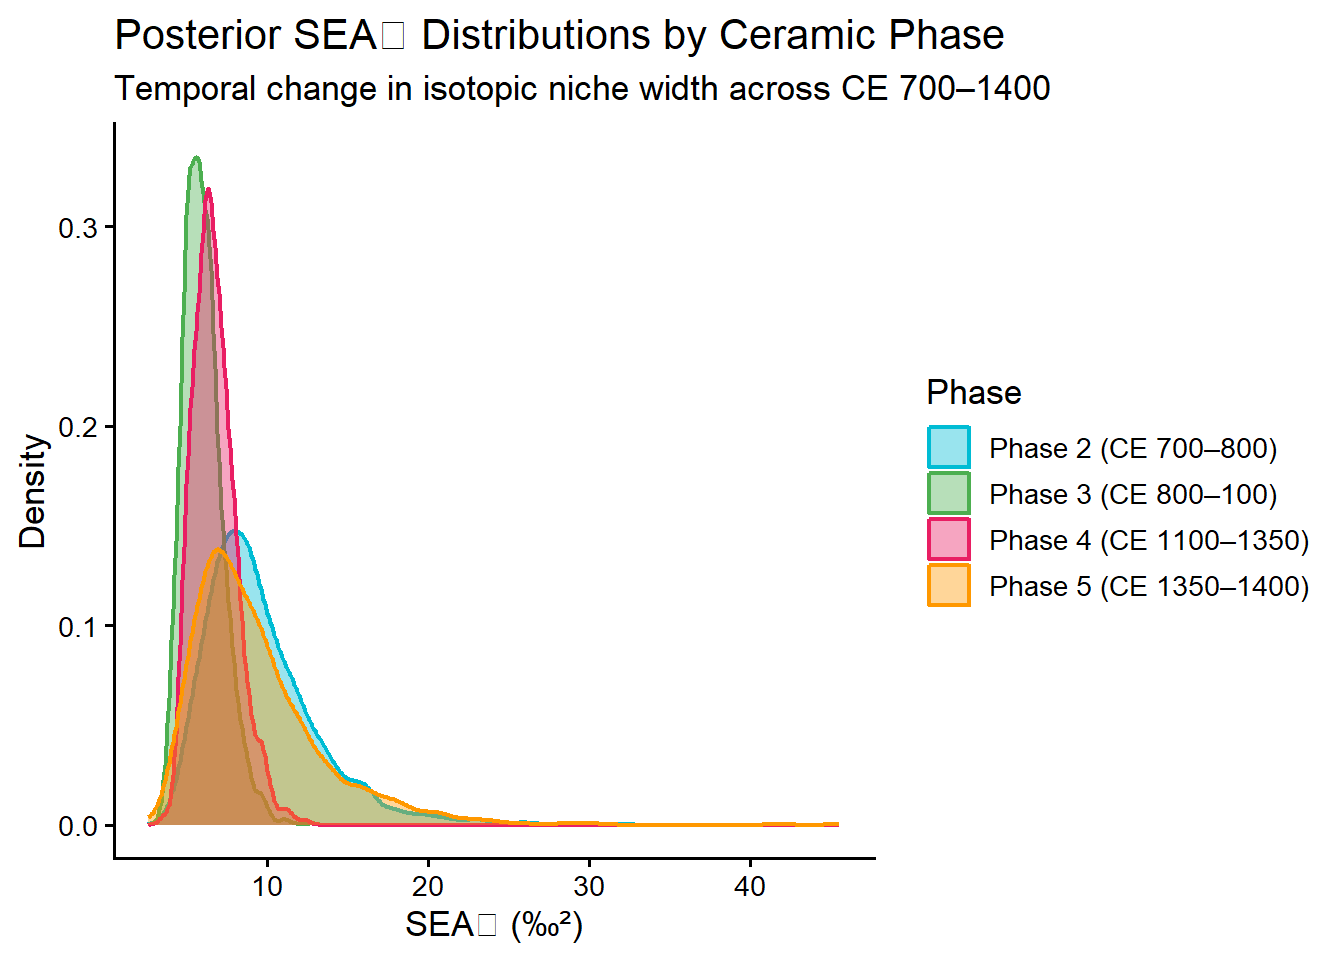
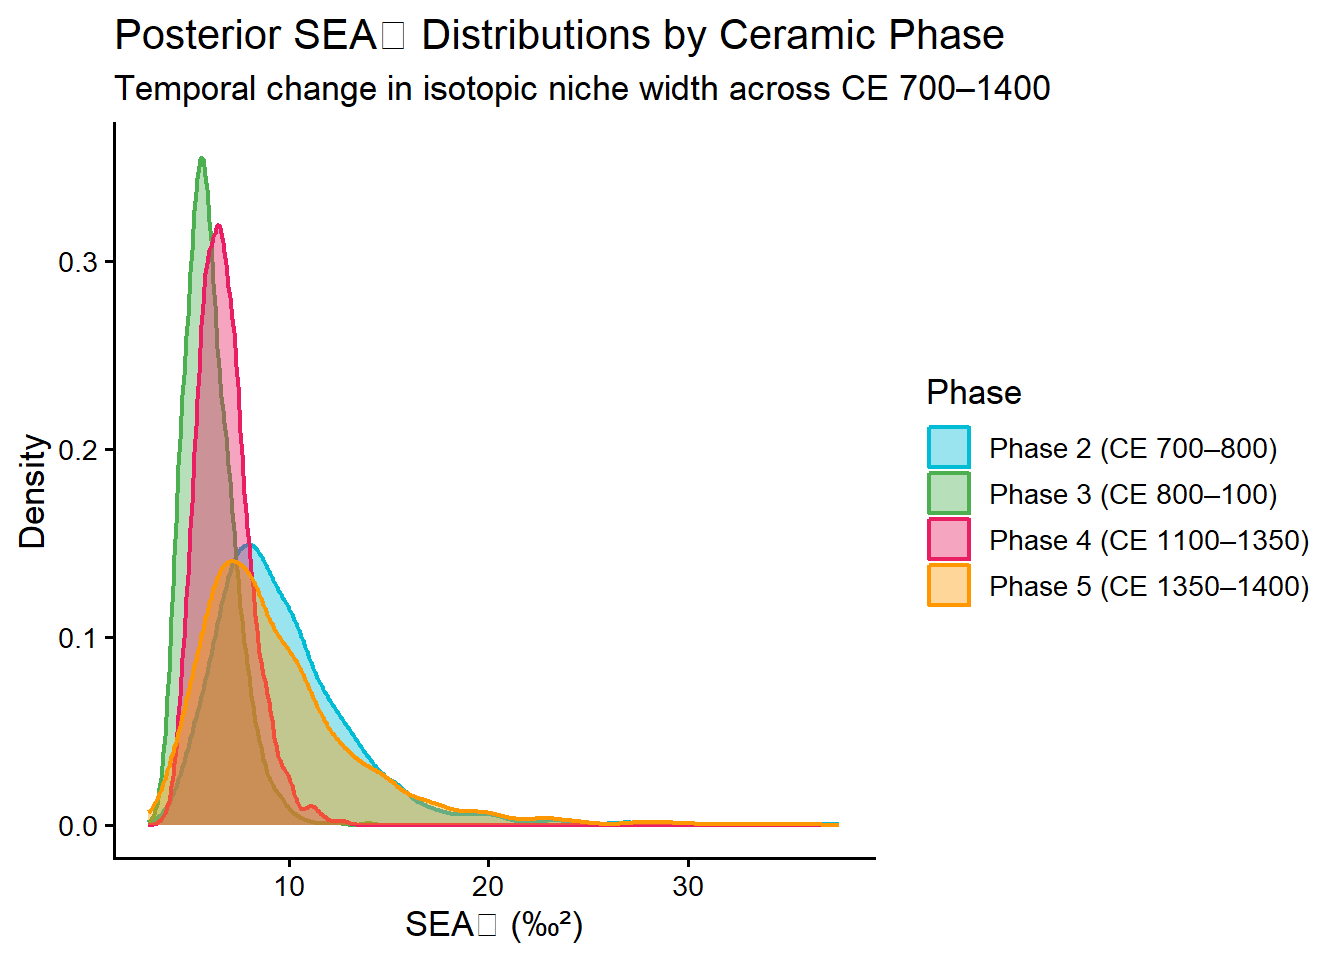
Merge remote changes from Stella

diff --git a/CollDataSciPro.html b/CollDataSciPro.html
@@ -581,8 +581,8 @@ Posterior SEA_B summary (‰²):</code></pre>
 <div class="code-copy-outer-scaffold"><div class="sourceCode cell-code" id="cb48"><pre class="sourceCode r code-with-copy"><code class="sourceCode r"><span id="cb48-1"><a href="#cb48-1" aria-hidden="true" tabindex="-1"></a><span class="fu">print</span>(<span class="fu">round</span>(<span class="fu">t</span>(SEA_B_sites_summary), <span class="dv">3</span>))</span></code></pre></div><button title="Copy to Clipboard" class="code-copy-button"><i class="bi"></i></button></div>
 <div class="cell-output cell-output-stdout">
 <pre><code>              mean median lower.2.5% upper.97.5%
-Mendoza     22.820 22.564     17.832      29.126
-Salvatierra 28.919 28.273     19.862      41.874</code></pre>
+Mendoza     22.873 22.715     17.950      28.853
+Salvatierra 29.135 28.557     20.143      41.759</code></pre>
 </div>
 </div>
 <p>Plot posterior SEA_B distributions</p>
@@ -620,7 +620,7 @@ Salvatierra 28.919 28.273     19.862      41.874</code></pre>
 <span id="cb51-4"><a href="#cb51-4" aria-hidden="true" tabindex="-1"></a>))</span></code></pre></div><button title="Copy to Clipboard" class="code-copy-button"><i class="bi"></i></button></div>
 <div class="cell-output cell-output-stdout">
 <pre><code>
-P(SEA_B Salvatierra &gt; SEA_B Mendoza) = 0.850</code></pre>
+P(SEA_B Salvatierra &gt; SEA_B Mendoza) = 0.845</code></pre>
 </div>
 </div>
 </section>
@@ -760,10 +760,10 @@ Posterior SEA_B summary by phase (‰²):</code></pre>
 <div class="code-copy-outer-scaffold"><div class="sourceCode cell-code" id="cb64"><pre class="sourceCode r code-with-copy"><code class="sourceCode r"><span id="cb64-1"><a href="#cb64-1" aria-hidden="true" tabindex="-1"></a><span class="fu">print</span>(<span class="fu">round</span>(<span class="fu">t</span>(SEA_B_phase_summary), <span class="dv">3</span>))</span></code></pre></div><button title="Copy to Clipboard" class="code-copy-button"><i class="bi"></i></button></div>
 <div class="cell-output cell-output-stdout">
 <pre><code>         mean median lower.2.5% upper.97.5%
-Phase_2 9.612  8.851      4.957      18.450
-Phase_3 6.008  5.866      4.063       8.878
-Phase_4 6.711  6.536      4.606       9.822
-Phase_5 9.317  8.386      4.288      19.693</code></pre>
+Phase_2 9.653  8.995      5.006      18.028
+Phase_3 5.996  5.813      4.042       8.912
+Phase_4 6.743  6.587      4.627       9.927
+Phase_5 9.374  8.394      4.362      19.894</code></pre>
 </div>
 <div class="code-copy-outer-scaffold"><div class="sourceCode cell-code" id="cb66"><pre class="sourceCode r code-with-copy"><code class="sourceCode r"><span id="cb66-1"><a href="#cb66-1" aria-hidden="true" tabindex="-1"></a>SEA_B_phase_long <span class="ot">&lt;-</span> <span class="fu">as.data.frame</span>(SEA_B_phase) <span class="sc">%&gt;%</span></span>
 <span id="cb66-2"><a href="#cb66-2" aria-hidden="true" tabindex="-1"></a>  <span class="fu">pivot_longer</span>(<span class="fu">everything</span>(), <span class="at">names_to =</span> <span class="st">"Phase"</span>, <span class="at">values_to =</span> <span class="st">"SEA_B"</span>) <span class="sc">%&gt;%</span></span>
@@ -802,12 +802,12 @@ Pairwise posterior probabilities P(row &gt; col):</code></pre>
 <span id="cb69-3"><a href="#cb69-3" aria-hidden="true" tabindex="-1"></a>  <span class="fu">cat</span>(<span class="fu">sprintf</span>(<span class="st">"  P(%s &gt; %s) = %.3f</span><span class="sc">\n</span><span class="st">"</span>, pair[<span class="dv">1</span>], pair[<span class="dv">2</span>], p))</span>
 <span id="cb69-4"><a href="#cb69-4" aria-hidden="true" tabindex="-1"></a>}</span></code></pre></div><button title="Copy to Clipboard" class="code-copy-button"><i class="bi"></i></button></div>
 <div class="cell-output cell-output-stdout">
-<pre><code>  P(Phase_2 &gt; Phase_3) = 0.868
-  P(Phase_2 &gt; Phase_4) = 0.793
-  P(Phase_2 &gt; Phase_5) = 0.548
-  P(Phase_3 &gt; Phase_4) = 0.352
-  P(Phase_3 &gt; Phase_5) = 0.200
-  P(Phase_4 &gt; Phase_5) = 0.267</code></pre>
+<pre><code>  P(Phase_2 &gt; Phase_3) = 0.878
+  P(Phase_2 &gt; Phase_4) = 0.814
+  P(Phase_2 &gt; Phase_5) = 0.555
+  P(Phase_3 &gt; Phase_4) = 0.336
+  P(Phase_3 &gt; Phase_5) = 0.184
+  P(Phase_4 &gt; Phase_5) = 0.258</code></pre>
 </div>
 </div>
 </section>
@@ -1017,13 +1017,13 @@ Posterior SEA_B summary for all groups (‰²):</code></pre>
 <div class="code-copy-outer-scaffold"><div class="sourceCode cell-code" id="cb89"><pre class="sourceCode r code-with-copy"><code class="sourceCode r"><span id="cb89-1"><a href="#cb89-1" aria-hidden="true" tabindex="-1"></a><span class="fu">print</span>(<span class="fu">round</span>(<span class="fu">t</span>(SEA_B_combined_summary), <span class="dv">3</span>))</span></code></pre></div><button title="Copy to Clipboard" class="code-copy-button"><i class="bi"></i></button></div>
 <div class="cell-output cell-output-stdout">
 <pre><code>                     mean median lower.2.5% upper.97.5%
-Salvatierra Humans 22.960 22.690     17.842      28.740
-Mendoza Humans     29.138 28.248     20.287      42.290
-Ungulates           4.200  3.919      2.223       8.034
-Armadillos          5.498  5.224      3.286       9.305
-Riverines           7.059  6.818      4.492      11.018
-Muscovy Duck       19.616 17.985      9.737      39.339
-Rodents             9.547  8.802      4.857      18.948</code></pre>
+Salvatierra Humans 22.990 22.652     18.070      29.214
+Mendoza Humans     29.004 28.244     19.832      42.169
+Ungulates           4.171  3.914      2.239       7.748
+Armadillos          5.405  5.113      3.189       9.212
+Riverines           7.027  6.828      4.391      10.747
+Muscovy Duck       19.363 18.048      9.757      37.270
+Rodents             9.258  8.579      4.733      17.688</code></pre>
 </div>
 <div class="code-copy-outer-scaffold"><div class="sourceCode cell-code" id="cb91"><pre class="sourceCode r code-with-copy"><code class="sourceCode r"><span id="cb91-1"><a href="#cb91-1" aria-hidden="true" tabindex="-1"></a>plot_df <span class="ot">&lt;-</span> siber_combined_df <span class="sc">%&gt;%</span></span>
 <span id="cb91-2"><a href="#cb91-2" aria-hidden="true" tabindex="-1"></a>  <span class="fu">rename</span>(<span class="at">d13C =</span> iso1, <span class="at">d15N =</span> iso2)</span>
@@ -1504,8 +1504,8 @@ Posterior centroid draws structure:</code></pre>
 Columns: 4
 $ draw  &lt;int&gt; 1, 2, 3, 4, 5, 6, 7, 8, 9, 10, 11, 12, 13, 14, 15, 16, 17, 18, 1…
 $ phase &lt;chr&gt; "2", "2", "2", "2", "2", "2", "2", "2", "2", "2", "2", "2", "2",…
-$ mu1   &lt;dbl&gt; 1.888069, 2.230946, 3.863054, 6.104917, 7.974742, 2.294894, 2.94…
-$ mu2   &lt;dbl&gt; 0.4296089, 0.8027619, 2.3747219, 4.2309804, 2.0753143, 1.4644291…</code></pre>
+$ mu1   &lt;dbl&gt; 5.260016, 5.015873, 4.260394, 2.522004, 2.324400, 6.563107, 2.65…
+$ mu2   &lt;dbl&gt; 1.72521963, 0.15289952, 1.58179940, 1.19435120, 0.49721624, 2.45…</code></pre>
 </div>
 <div class="code-copy-outer-scaffold"><div class="sourceCode cell-code" id="cb158"><pre class="sourceCode r code-with-copy"><code class="sourceCode r"><span id="cb158-1"><a href="#cb158-1" aria-hidden="true" tabindex="-1"></a><span class="co"># --- Compute Layman metrics per posterior draw ---</span></span>
 <span id="cb158-2"><a href="#cb158-2" aria-hidden="true" tabindex="-1"></a><span class="co"># For each draw, compute the 6 Layman metrics across the 4 phase centroids</span></span>
@@ -1593,12 +1593,12 @@ Posterior Layman Metrics Summary:</code></pre>
 <pre><code># A tibble: 6 × 5
   Metric    mean median lower upper
   &lt;chr&gt;    &lt;dbl&gt;  &lt;dbl&gt; &lt;dbl&gt; &lt;dbl&gt;
-1 dC_range  3.64   2.79 0.719 11.8 
-2 dN_range  4.69   4.02 1.46  11.4 
-3 TA        5.81   3.59 0.412 25.4 
-4 CD        2.14   1.77 0.755  5.49
-5 MNND      2.02   1.77 0.723  4.87
-6 SDNND     1.71   1.21 0.139  6.02</code></pre>
+1 dC_range  3.67   2.84 0.794 11.6 
+2 dN_range  4.66   3.97 1.24  12.1 
+3 TA        5.81   3.54 0.556 24.3 
+4 CD        2.13   1.77 0.761  5.61
+5 MNND      2.03   1.77 0.766  4.84
+6 SDNND     1.71   1.21 0.117  6.36</code></pre>
 </div>
 <div class="code-copy-outer-scaffold"><div class="sourceCode cell-code" id="cb164"><pre class="sourceCode r code-with-copy"><code class="sourceCode r"><span id="cb164-1"><a href="#cb164-1" aria-hidden="true" tabindex="-1"></a><span class="co"># --- 12b. Visualise ---</span></span>
 <span id="cb164-2"><a href="#cb164-2" aria-hidden="true" tabindex="-1"></a>layman_long <span class="ot">&lt;-</span> layman_draws <span class="sc">%&gt;%</span></span>
@@ -2245,13 +2245,63 @@ different, consistent with intentional maize feeding of ducks.</code></pre>
 </section>
 <section id="the-results" class="level4">
 <h4 class="anchored" data-anchor-id="the-results">The results</h4>
-<p>Plots</p>
-<p>Patterns</p>
-<p>Assumptions and limitations</p>
+<section id="plots" class="level5">
+<h5 class="anchored" data-anchor-id="plots">Plots</h5>
+<p><strong>Figure 1 — Site-level biplot (Chunk 6):</strong> A δ¹³C vs δ¹⁵N scatter plot with 40% maximum likelihood ellipses shows Salvatierra and Mendoza populations nearly completely overlapping in isotopic space, with both sites positioned in the high-δ¹³C region consistent with substantial C4 (maize) consumption.</p>
+<p><strong>Figure 2 — Posterior SEA_B distributions by site (Chunk 6):</strong> Density plots of the posterior Bayesian Standard Ellipse Area show broadly overlapping distributions for both sites, confirming no credible difference in isotopic niche width between Salvatierra and Mendoza.</p>
+<p><strong>Figure 3 — Diachronic phase biplot (Chunk 7):</strong> A δ¹³C vs δ¹⁵N plot with ellipses by ceramic phase shows Phase 2 shifted toward higher δ¹³C values with minimal overlap with later phases, while Phases 3, 4, and 5 form a tightly clustered group in the −12 to −13‰ range.</p>
+<p><strong>Figure 4 — Posterior SEA_B by phase (Chunk 7):</strong> Density curves show Phase 2 has a distinctly narrower posterior SEA_B distribution than later phases, suggesting a more uniform and specialized diet in the earliest occupation.</p>
+<p><strong>Figure 5 — Combined human and fauna biplot (Chunk 8):</strong> The full community biplot shows clear isotopic separation between faunal groups, with Ungulates anchoring the C3 end and Armadillos/Muscovy Ducks clustering near the human populations at the C4 end.</p>
+<p><strong>Figure 6 — Posterior SEA_B boxplot for all groups (Chunk 8):</strong> Muscovy ducks and Rodents show the widest posterior niche width uncertainty relative to their sample sizes, while Ungulates and humans show tighter, better-constrained ellipses.</p>
+<p><strong>Figure 7 — Diachronic overlap heatmap (Chunk 11):</strong> The 4×4 proportional overlap matrix visualised as an annotated heatmap shows near-zero overlap between Phase 2 and Phases 4–5, and high overlap (&gt;0.7) among Phases 3, 4, and 5 — quantifying dietary convergence after CE 800 for the first time.</p>
+<p><strong>Figure 8 — Bayesian Layman metrics (Chunk 12):</strong> Posterior density plots for the six community-level metrics show that the δ¹³C range across phase centroids has the widest posterior uncertainty, reflecting the main axis of dietary change through time, while δ¹⁵N range and MNND are relatively stable.</p>
+<p><strong>Figure 9 — Centroid partitioning map (Chunk 12):</strong> Group centroids plotted in isotopic space with nearest-neighbour arrows show that Muscovy Ducks are isotopically closest to the human populations, while Ungulates are most distant — visualising the domestication-relevant dietary proximity between ducks and humans.</p>
+<p><strong>Figure 10 — Maize mixing model violin plots (Chunk 13):</strong> Two-panel figure showing estimated % maize contribution by ecological group (Panel A) and by ceramic phase in humans (Panel B). The diachronic panel clearly shows the decline from ~70% in Phase 2 to ~50% in Phase 5, with diamond markers showing phase means.</p>
+</section>
+<section id="patterns" class="level5">
+<h5 class="anchored" data-anchor-id="patterns">Patterns</h5>
+<p>Five clear patterns emerge across the analyses:</p>
+<p><strong>1. Dietary homogeneity across sites:</strong> Despite Salvatierra and Mendoza being separate excavation sites with different burial contexts and sample sizes, their isotopic signatures are statistically indistinguishable. This confirms that the Casarabe culture maintained a uniform subsistence strategy across its settlement network, consistent with the extensive canal and causeway system linking sites.</p>
+<p><strong>2. Maize dominance in the earliest phase:</strong> Phase 2 (CE 700–800) stands out as a period of exceptionally high maize reliance, with δ¹³C values comparable to classic Maya maize agriculturalists — the highest documented in the Amazon Basin. This suggests maize agriculture was already deeply established before the main Casarabe monumental construction phase.</p>
+<p><strong>3. Gradual dietary diversification after CE 800:</strong> The progressive decline in δ¹³C from Phase 2 onward, confirmed both by the ANOVA results and the overlap heatmap, points to a diversification of food sources rather than an abrupt abandonment of maize. The high overlap among Phases 3–5 indicates dietary stabilisation at a new, lower level of maize reliance by CE 800.</p>
+<p><strong>4. Muscovy duck maize feeding:</strong> Muscovy ducks consistently show δ¹³C values comparable to the human population, with the mixing model placing their maize contribution statistically indistinguishable from that of humans. Combined with zooarchaeological evidence of confinement pathologies reported in the paper, this strongly supports intentional maize feeding and active management from CE 800 onward.</p>
+<p><strong>5. Clear isotopic niche partitioning:</strong> The centroid map and Layman metrics confirm that the seven groups partition isotopic space in a biologically meaningful way — Ungulates providing the C3 baseline, Riverines and Rodents occupying mixed positions, and Armadillos, Muscovy Ducks, and humans clustering in the C4-enriched region. The MNND values indicate moderate niche packing without excessive overlap between most groups.</p>
+</section>
+<section id="assumptions-and-limitations" class="level5">
+<h5 class="anchored" data-anchor-id="assumptions-and-limitations">Assumptions and Limitations</h5>
+<p><strong>Assumptions of SIBER:</strong> SIBER assumes that isotopic data within each group follow a bivariate normal distribution. This assumption is tested indirectly through the Shapiro-Wilk normality tests on δ¹³C and δ¹⁵N separately, but the bivariate normality of the joint distribution is not formally tested. Groups with small sample sizes (n &lt; 10, particularly Phase 5 with n=9 and Muscovy Duck with n=9) produce wider posterior ellipses with greater uncertainty, meaning the SIBER results for these groups should be interpreted cautiously. The standard ellipse represents only 40% of the population by design — it is not a confidence interval for all individuals but rather a measure of the core isotopic niche.</p>
+<p><strong>Assumptions of the mixing model (Chunk 13):</strong> The two-source model assumes only two dietary endpoints — pure C3 and pure C4 (maize) — which oversimplifies the dietary complexity of an Amazonian population that consumed manioc, sweet potatoes, fish, game, and other resources. The trophic enrichment factor (TEF) of +5‰ per trophic level follows Hedges &amp; Reynard (2007) for bone collagen but carries uncertainty of ±1–2‰, which propagates into the maize percentage estimates. Values were clamped to [0,1] to prevent biologically impossible estimates, but unclamped values for some individuals suggest the C3 endpoint may need refinement using locally calibrated baselines rather than the ungulate mean.</p>
+<p><strong>Collagen preservation:</strong> The paper reports over 90% collagen preservation yield, which is exceptional for tropical contexts. However, the humid tropical environment of the Llanos de Mojos introduces some risk of diagenetic alteration that cannot be fully excluded, even with acceptable C/N ratios. The SIBER analysis assumes isotopic values reflect ante-mortem diet without post-mortem alteration.</p>
+<p><strong>Temporal resolution:</strong> The five ceramic phases span between 50 and 300 years each, meaning that within-phase dietary variation is averaged out. Individuals living at the beginning and end of Phase 3 (a 300-year span) are treated as a single dietary group, which may mask finer-scale temporal trends.</p>
+<p><strong>Faunal exclusions:</strong> Four faunal samples were excluded from the Bayesian analysis — two misidentified coracoid duck fragments (SAF39, SAF61) and two ungulate outliers (SAF50, SAF56). These exclusions follow the paper’s reasoning but introduce a degree of subjectivity in the final faunal baseline, particularly for the ungulate C3 endpoint used in the mixing model.</p>
+<p><strong>Sample size imbalance:</strong> Salvatierra contributes 65 of the 86 human individuals while Mendoza contributes only 24, and Phase 2 has only 10 individuals compared to 27 in Phases 3 and 4. This imbalance means that comparisons between sites and early phases carry greater posterior uncertainty and should be interpreted with appropriate caution</p>
+</section>
 </section>
 <section id="conclusion" class="level4">
 <h4 class="anchored" data-anchor-id="conclusion">Conclusion</h4>
-<p>When this method is useful and when not</p>
+<p>This analysis successfully replicates and substantially extends the Bayesian isotopic niche modeling of Hermenegildo et al.&nbsp;(2025) using the SIBER framework in R. The replication confirms the paper’s core findings: maize was the dominant dietary staple of the Casarabe culture throughout CE 700–1400, with peak reliance in the earliest occupation phase, and Muscovy ducks were actively managed and intentionally fed maize from as early as CE 800.</p>
+<p>The novel contributions — the diachronic overlap heatmap, the Bayesian Layman community metrics, the two-source isotopic mixing model, and the spatial mapping comparison — go beyond the paper in three important ways. First, they quantify for the first time how much isotopic dietary space was actually shared between ceramic phases, showing that the dietary shift after Phase 2 was a convergence toward a stable new equilibrium rather than a continuous decline. Second, they provide the first percentage estimates of maize contribution to individual diets, placing Phase 2 humans at approximately 65–75% maize reliance — values comparable to the most maize-dependent populations in the ancient Americas. Third, they demonstrate that Muscovy duck maize reliance was not merely elevated but was statistically equivalent to human levels, providing the strongest quantitative support yet for intentional feeding practices.</p>
+<p>The spatial mapping comparison additionally demonstrates that the paper’s original QGIS-based maps can be fully reproduced in code — in both R and Python — making the spatial component of the analysis transparent and reproducible for the first time.</p>
+<section id="when-this-method-is-useful-and-when-not" class="level5">
+<h5 class="anchored" data-anchor-id="when-this-method-is-useful-and-when-not">When this method is useful and when not</h5>
+<p><strong>SIBER is most useful when:</strong></p>
+<ul>
+<li><p>You have <strong>isotopic data from multiple groups</strong> and want to compare their dietary niches simultaneously rather than pairwise, especially when sample sizes differ substantially between groups.</p></li>
+<li><p>You need <strong>uncertainty quantification</strong> around niche estimates — the Bayesian posterior distributions provide credible intervals that frequentist ellipses cannot, which is critical when sample sizes are small (n &lt; 30).</p></li>
+<li><p>You are working in <strong>archaeological or ecological contexts</strong> where the goal is to characterise the dietary or ecological space occupied by a population, not to test a specific mechanistic hypothesis.</p></li>
+<li><p>You want to compare <strong>niche width (SEA_B) and overlap</strong> between groups in a statistically rigorous way that accounts for small sample size correction automatically.</p></li>
+<li><p>You have <strong>community-level questions</strong> about how multiple species or populations partition available resources, where Layman metrics provide an informative summary of the entire assemblage structure.</p></li>
+</ul>
+<p><strong>SIBER is less appropriate or limited when:</strong></p>
+<ul>
+<li><p><strong>Sample sizes are very small (n &lt; 5):</strong> SIBER will fit ellipses to any data but the posterior distributions become extremely wide and uninformative, and the standard ellipse may not meaningfully represent the population’s niche.</p></li>
+<li><p><strong>You need causal or mechanistic inference:</strong> SIBER describes isotopic niches but cannot determine why niches differ — it needs to be combined with mixing models, zooarchaeology, or archaeobotany for interpretation, as we demonstrated in Chunk 13.</p></li>
+<li><p><strong>Your data are strongly non-normal or multimodal:</strong> SIBER assumes bivariate normality within each group. If a group contains two distinct dietary subpopulations (e.g.&nbsp;high-status vs.&nbsp;low-status individuals with very different diets), a single ellipse will misrepresent both and the Bayesian model will be poorly specified.</p></li>
+<li><p><strong>You need individual-level dietary estimates:</strong> SIBER operates at the group level. For individual dietary reconstruction, isotopic mixing models (as in Chunk 13) or Bayesian mixing frameworks like MixSIAR are more appropriate tools.</p></li>
+<li><p><strong>Temporal resolution is critical:</strong> Because SIBER pools all individuals within a group into a single ellipse, it cannot detect within-phase dietary trends. If your research question requires finer temporal resolution than your phase definitions allow, time-series approaches or individual radiocarbon-dated specimens are needed.</p></li>
+<li><p><strong>You are comparing groups across very different ecosystems:</strong> SIBER ellipse overlap is only meaningful when groups share the same isotopic baseline. Comparing populations from the Amazon with populations from the Andes in a single SIBER community would conflate dietary differences with baseline differences, producing misleading overlap estimates.</p></li>
+</ul>
+</section>
 </section>
 </section>
 </section>
